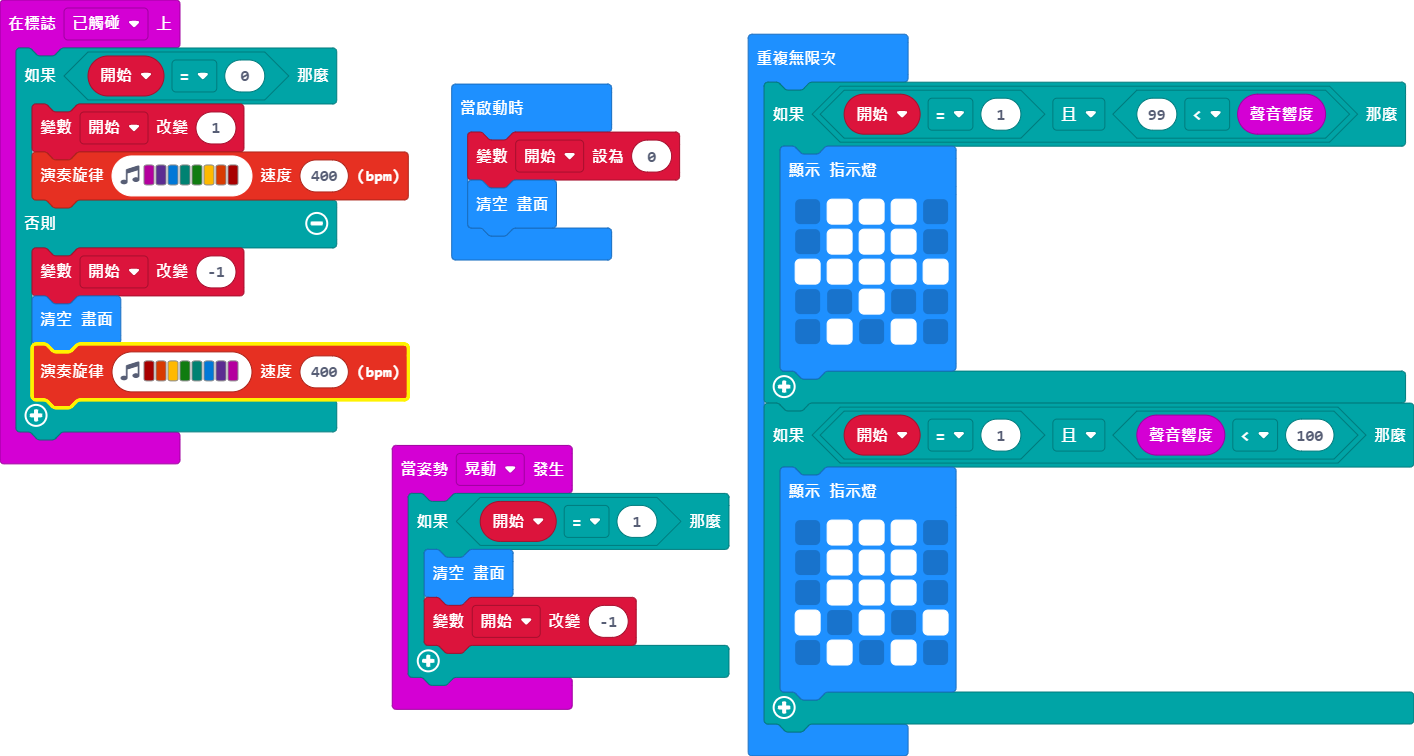
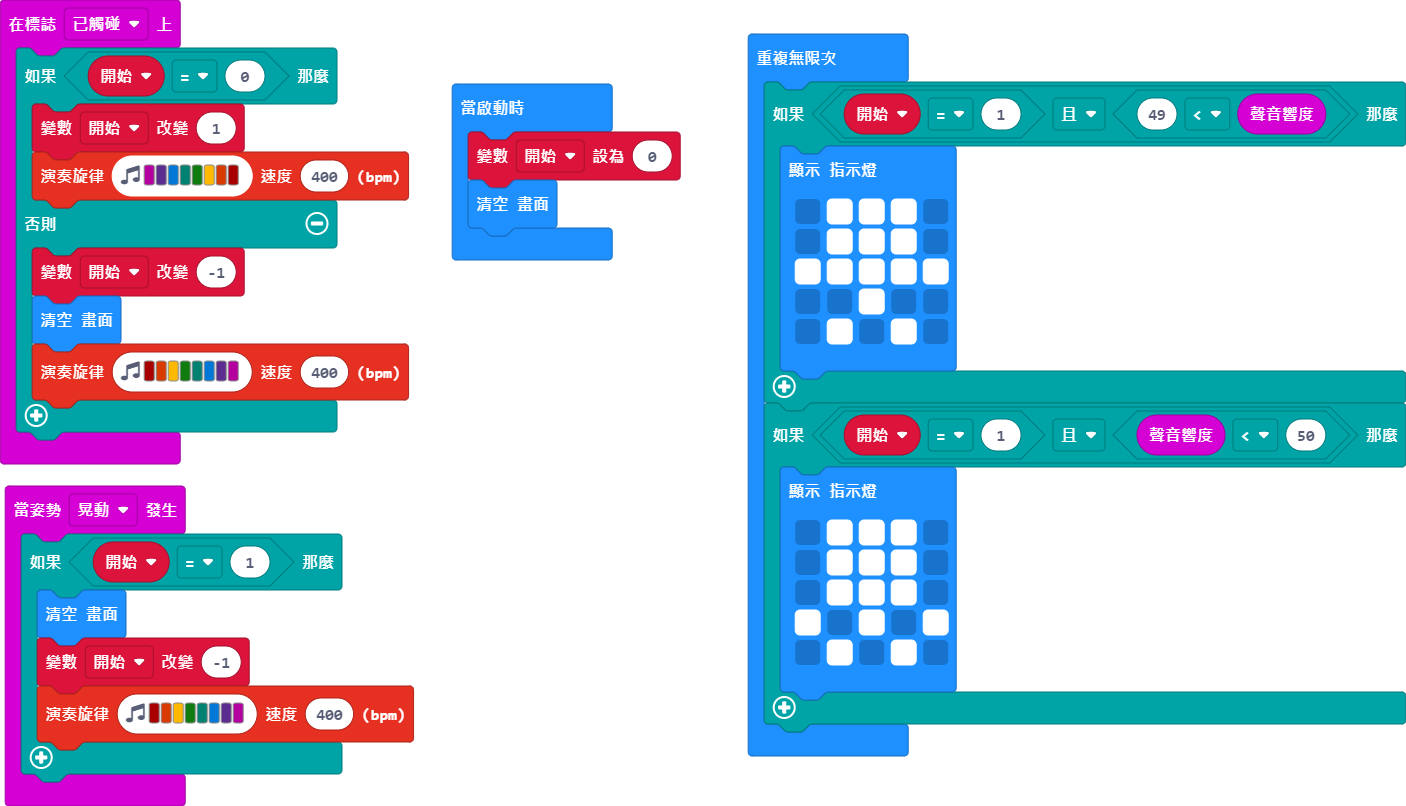
更新 main.blocks, main.ts

diff --git a/main.ts b/main.ts
@@ -2,6 +2,7 @@ input.onGesture(Gesture.Shake, function () {
     if (開始 == 1) {
         basic.clearScreen()
         開始 += -1
+        music.playMelody("C5 B A G F E D C ", 400)
     }
 })
 input.onLogoEvent(TouchButtonEvent.Touched, function () {
@@ -18,7 +19,7 @@ let 開始 = 0
 開始 = 0
 basic.clearScreen()
 basic.forever(function () {
-    if (開始 == 1 && 99 < input.soundLevel()) {
+    if (開始 == 1 && 49 < input.soundLevel()) {
         basic.showLeds(`
             . # # # .
             . # # # .
@@ -27,7 +28,7 @@ basic.forever(function () {
             . # . # .
             `)
     }
-    if (開始 == 1 && input.soundLevel() < 100) {
+    if (開始 == 1 && input.soundLevel() < 50) {
         basic.showLeds(`
             . # # # .
             . # # # .
